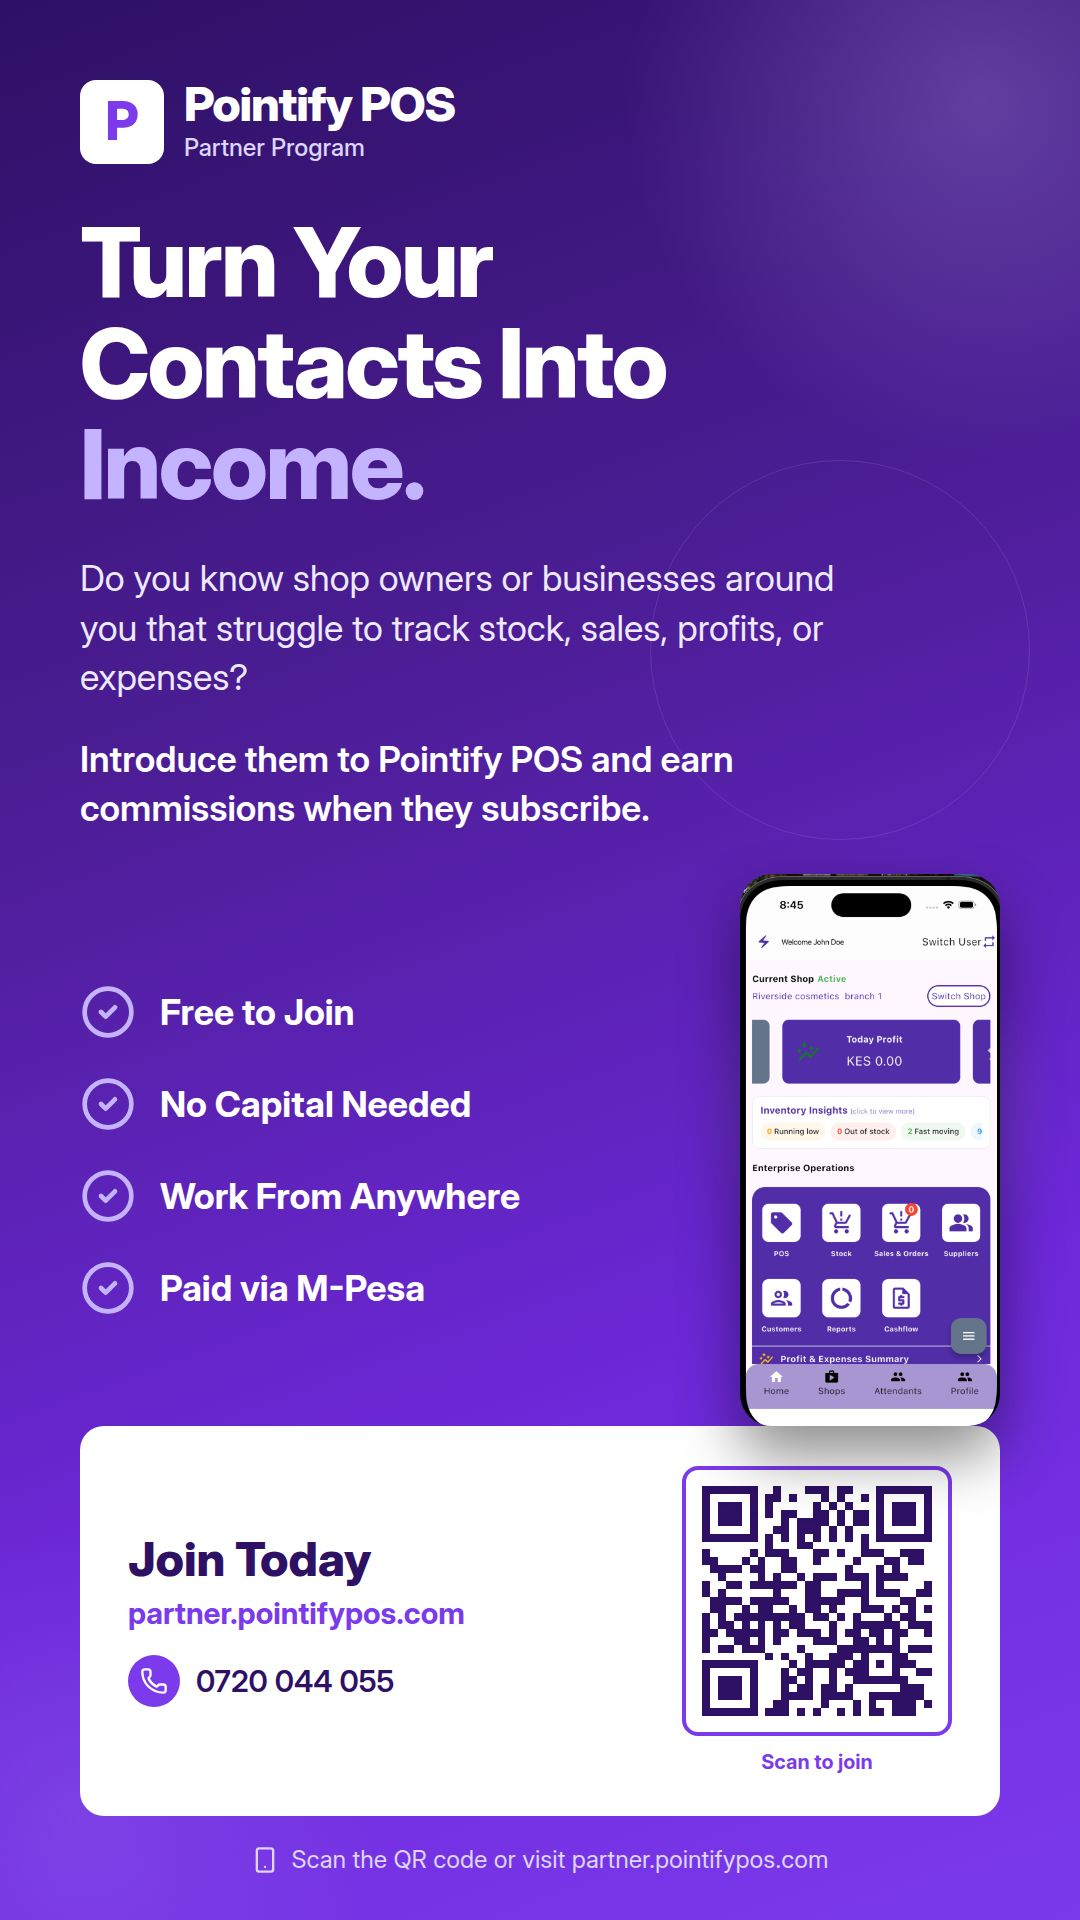
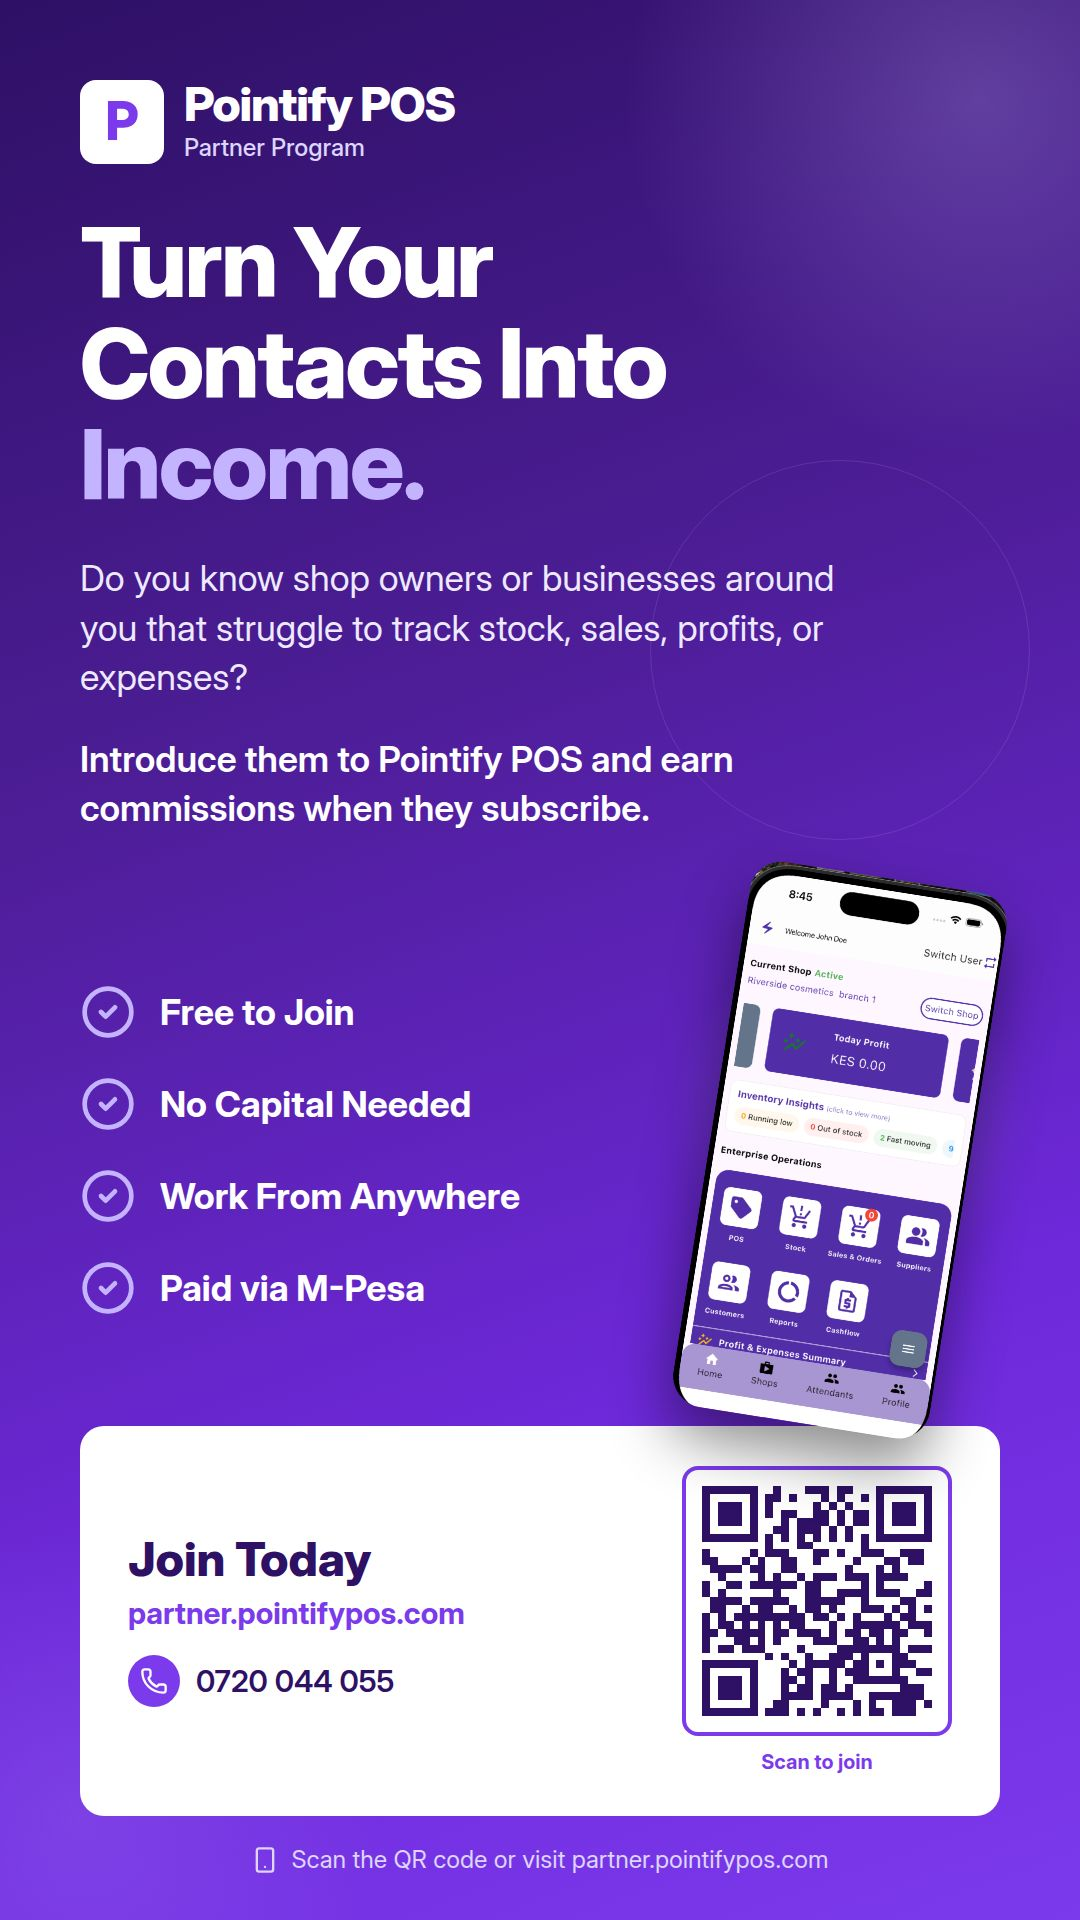
Tilt phone screenshots to add a dynamic look to posters
Update Poster and PosterStatus components to include a 9-degree rotation on the phone mockups, enhancing visual appeal and creating an intentional overlap effect.

Replit-Commit-Author: Agent
Replit-Commit-Session-Id: 7881019f-e82f-4f27-b2d1-29d35c0b27c1
Replit-Commit-Checkpoint-Type: full_checkpoint
Replit-Commit-Event-Id: 15c6b317-a72e-4428-abf4-eda1768e8c8a
Replit-Commit-Screenshot-Url: https://storage.googleapis.com/screenshot-production-us-central1/cb193285-7bf4-449f-9b0a-a237699dcd95/7881019f-e82f-4f27-b2d1-29d35c0b27c1/xk1ieBE
Replit-Helium-Checkpoint-Created: true

Changed region(s): [[0.5806, 0.4375, 0.9472, 0.7812]]

diff --git a/artifacts/mockup-sandbox/src/components/mockups/partner-poster/PosterStatus.tsx b/artifacts/mockup-sandbox/src/components/mockups/partner-poster/PosterStatus.tsx
@@ -124,6 +124,8 @@ export function PosterStatus() {
                   width: 260,
                   borderRadius: 32,
                   boxShadow: "0 30px 60px rgba(0,0,0,0.45)",
+                  transform: "rotate(9deg)",
+                  marginRight: 30,
                 }}
               />
             </div>

diff --git a/artifacts/mockup-sandbox/src/components/mockups/partner-poster/Poster.tsx b/artifacts/mockup-sandbox/src/components/mockups/partner-poster/Poster.tsx
@@ -124,6 +124,8 @@ export function Poster() {
                   width: 185,
                   borderRadius: 24,
                   boxShadow: "0 24px 48px rgba(0,0,0,0.45)",
+                  transform: "rotate(9deg)",
+                  marginRight: 24,
                 }}
               />
             </div>
